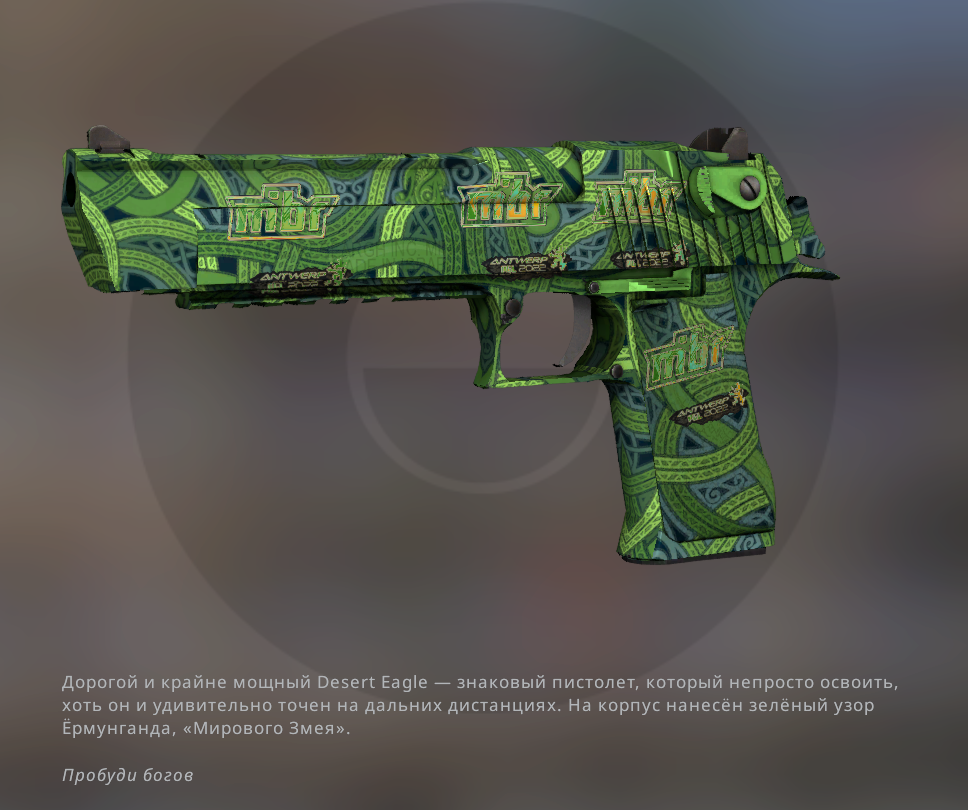
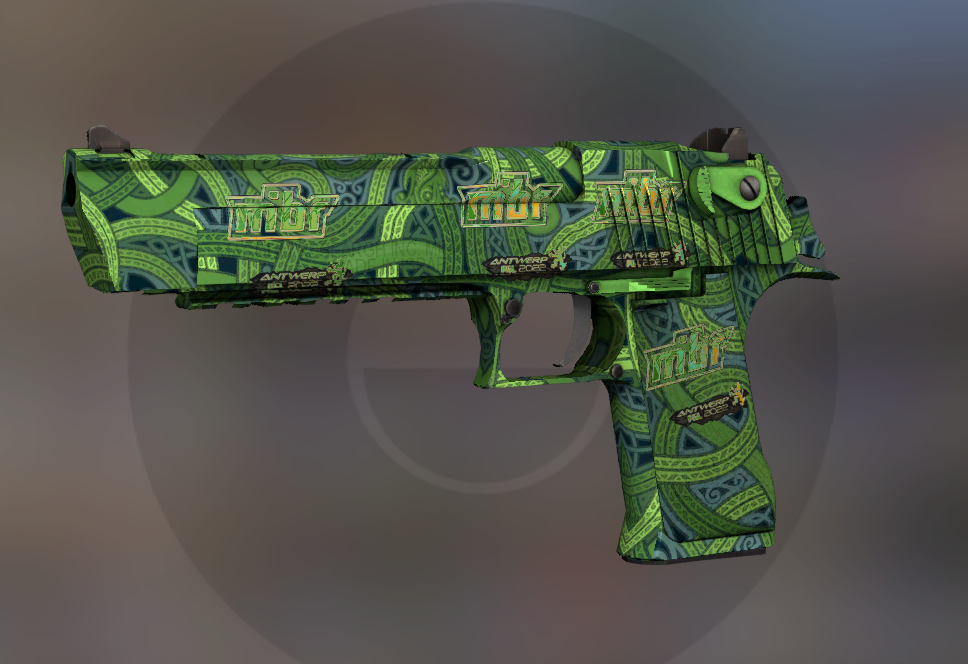
add collections and descriptions in popup

Changed region(s): [[0.031, 0.1506, 0.9298, 1.0], [0.7128, 0.9036, 0.9607, 0.994]]

diff --git a/src/components/InspectionPopup/InspectionPopup.js b/src/components/InspectionPopup/InspectionPopup.js
@@ -5,6 +5,7 @@ import de from '../../images/inspect_guns/DesertEagle_Ermungand.png';
 
 function InspectionPopup(props) {
 
+  console.log(props.weapon)
   
   return (
     <Popup name="inspection-popup" isVisible={props.isVisible}>
@@ -14,12 +15,20 @@ function InspectionPopup(props) {
       </div>
       <div className='inspection-popup__header'>
         <img className='inspection-popup__header-collection-logo' src={north} alt="collection" draggable="false"/>
-        <h1 className='inspection-popup__header-title'>Desert Eagle | Изумрудный Ёрмунганд</h1>
-        <p className='inspection-popup__header-subtitle'>Коллекция "Север"</p>
-        <div className='inspection-popup__header-underline'></div>
+        <h1 className='inspection-popup__header-title'>{props.weapon.weapon} | {props.weapon.name}</h1>
+        <p className='inspection-popup__header-subtitle'>{props.weapon.collection}</p>
+        <div className={'inspection-popup__underline' + 
+          ((props.weapon.rarity === "Covert") ? " inspection-popup__underline_covert" : "") +
+          ((props.weapon.rarity === "Classified") ? " inspection-popup__underline_classified" : "") +
+          ((props.weapon.rarity === "Restricted") ? " inspection-popup__underline_retricted" : "") +
+          ((props.weapon.rarity === "Mil-Spec") ? " inspection-popup__underline_milspec" : "") +
+          ((props.weapon.rarity === "Industrial") ? " inspection-popup__underline_industrial" : "") +
+          ((props.weapon.rarity === "Consumer") ? " inspection-popup__underline_consumer" : "")}>
+        </div>
       </div>
       <div className='inspection-popup__main'>
-        <img className='inspection-popup__main-logo' src={de} alt="weapon" draggable="false"/>
+        <img className='inspection-popup__image' src={props.weapon.image_inspect} alt="weapon" draggable="false"/>
+        <p className='inspection-popup__description'>{props.weapon.description}</p>
       </div>
       <div className='inspection-popup__bottom'>
         <button className='inspection-popup__button' onClick={props.handleClose}>Закрыть</button>

diff --git a/src/styles/index.css b/src/styles/index.css
@@ -1373,16 +1373,16 @@ https://toughengineer.github.io/demo/slider-styler*/
   position: relative;
   transition: box-shadow 0.2s linear;
 }
-.gun__image-wrapper_red {
+.gun__image-wrapper_covert {
   border-left: 6px solid #EB4B4B;
 }
-.gun__image-wrapper_pink {
+.gun__image-wrapper_classified {
   border-left: 6px solid #D32CE6;
 }
-.gun__image-wrapper_purple {
+.gun__image-wrapper_retricted {
   border-left: 6px solid #8847ff;
 }
-.gun__image-wrapper_blue {
+.gun__image-wrapper_milspec {
   border-left: 6px solid #4B69FF;
 }
 .gun__image-wrapper_industrial {
@@ -3968,21 +3968,60 @@ https://toughengineer.github.io/demo/slider-styler*/
   color: #CCCCCC;
   grid-area: subtitle;
 }
-.inspection-popup__header-underline {
+.inspection-popup__underline {
   margin: 0;
   padding: 0;
   width: 100%;
   height: 6px;
   display: flex;
   box-shadow: 0px 2px 8px 1px rgba(0, 0, 0, 0.5);
-  background-color: #8847ff;
+  background-color: #DED6CC;
   grid-area: underline;
+}
+.inspection-popup__underline_covert {
+  background-color: #EB4B4B;
+}
+.inspection-popup__underline_classified {
+  background-color: #D32CE6;
+}
+.inspection-popup__underline_retricted {
+  background-color: #8847ff;
+}
+.inspection-popup__underline_milspec {
+  background-color: #4B69FF;
+}
+.inspection-popup__underline_industrial {
+  background-color: #5E98D9;
+}
+.inspection-popup__underline_consumer {
+  background-color: #B0C3D9;
 }
 .inspection-popup__main {
   margin: 0;
   padding: 20px 0 0 0;
   display: flex;
+  align-items: flex-start;
+  flex: 1;
+  box-sizing: border-box;
   z-index: 1;
+}
+.inspection-popup__image {
+  margin: 0;
+  padding: 0;
+  object-fit: contain;
+}
+.inspection-popup__description {
+  margin: 0;
+  padding: 24px 62px;
+  max-width: 968px;
+  display: flex;
+  box-sizing: border-box;
+  font-size: 18px;
+  letter-spacing: 1px;
+  line-height: 1.3;
+  color: #B2B5B8;
+  position: absolute;
+  bottom: 86px;
 }
 .inspection-popup__bottom {
   margin: 0;

diff --git a/src/components/InspectionPopup/InspectionPopup.scss b/src/components/InspectionPopup/InspectionPopup.scss
@@ -89,22 +89,69 @@
     grid-area: subtitle;
   }
 
-  &__header-underline {
+  &__underline {
     margin: 0;
     padding: 0;
     width: 100%;
     height: 6px;
     display: flex;
     box-shadow: 0px 2px 8px 1px rgba(0, 0, 0, 0.5);
-    background-color: $retricted_color;
+    background-color: #DED6CC;
     grid-area: underline;
+
+    &_covert {
+      background-color: $covert_color;
+    }
+
+    &_classified {
+      background-color: $classified_color;
+    }
+
+    &_retricted {
+      background-color: $retricted_color;
+    }
+
+    &_milspec {
+      background-color: $milspec_color;
+    }
+
+    &_industrial {
+      background-color: $industrial_color;
+    }
+
+    &_consumer {
+      background-color: $consumer_color;
+    }
   }
 
   &__main {
     margin: 0;
     padding: 20px 0 0 0;
     display: flex;
+    align-items: flex-start;
+    flex: 1;
+    box-sizing: border-box;
     z-index: 1;
+  }
+
+  &__image {
+    margin: 0;
+    padding: 0;
+    object-fit: contain;
+  }
+
+  &__description {
+    margin: 0;
+    padding: 24px 62px;
+    max-width: 968px;
+    display: flex;
+    box-sizing: border-box;
+    font-size: 18px;
+    letter-spacing: 1px;
+    line-height: 1.3;
+    color: #B2B5B8;
+    position: absolute;
+    bottom: 86px;
   }
 
   &__bottom {

diff --git a/src/components/Gun/Gun.js b/src/components/Gun/Gun.js
@@ -19,16 +19,16 @@ function Gun(props) {
   //Обработчики клика по опциям в меню
   function handleOptionClick() {
     console.log("Осмотреть")
-    props.handleInspectClick();
+    props.handleInspectClick(props.object);
   }
 
   return (
     <li className={`gun`} ref={gunRef}>
       <div className={`gun__image-wrapper gun__image-wrapper-${props.object.name}` + 
-        ((props.object.rarity === "Covert") ? " gun__image-wrapper_red" : "") +
-        ((props.object.rarity === "Classified") ? " gun__image-wrapper_pink" : "") +
-        ((props.object.rarity === "Restricted") ? " gun__image-wrapper_purple" : "") +
-        ((props.object.rarity === "Mil-Spec") ? " gun__image-wrapper_blue" : "") +
+        ((props.object.rarity === "Covert") ? " gun__image-wrapper_covert" : "") +
+        ((props.object.rarity === "Classified") ? " gun__image-wrapper_classified" : "") +
+        ((props.object.rarity === "Restricted") ? " gun__image-wrapper_retricted" : "") +
+        ((props.object.rarity === "Mil-Spec") ? " gun__image-wrapper_milspec" : "") +
         ((props.object.rarity === "Industrial") ? " gun__image-wrapper_industrial" : "") +
         ((props.object.rarity === "Consumer") ? " gun__image-wrapper_consumer" : "")     
         }>

diff --git a/src/components/App/App.js b/src/components/App/App.js
@@ -39,6 +39,7 @@ function App() {
   const [setupValue, setSetupValue] = React.useState(0);
 
   const[isInspectionPopupVisible, setIsInspectionPopupVisible] = React.useState(false);
+  const[weapon, setWeapon] = React.useState({});
 
   const [tooltip, setTooltip] = React.useState({visible: false, text: "", x: "-100", y: "-100"});
 
@@ -172,7 +173,9 @@ function App() {
   }
 
   //Обработчик клика осмотра оружия
-  function handleInspectClick() {
+  function handleInspectClick(object) {
+    console.log(object)
+    setWeapon(object);
     setIsInspectionPopupVisible(true);
   }
 
@@ -239,7 +242,7 @@ function App() {
           handleClose={handleSetupPopupClose}
         /> : < ></> }
         <Tooltip tooltip={tooltip} /> : <></>
-        { isInspectionPopupVisible ? <InspectionPopup isVisible={isInspectionPopupVisible} handleClose={handleInspectionPopupClose} />:<></>}
+        { isInspectionPopupVisible ? <InspectionPopup isVisible={isInspectionPopupVisible} weapon={weapon} handleClose={handleInspectionPopupClose} />:<></>}
     </div>
     </TooltipContext.Provider>
   );

diff --git a/src/components/Gun/Gun.scss b/src/components/Gun/Gun.scss
@@ -23,28 +23,28 @@
     position: relative;
     transition: box-shadow 0.2s linear;
 
-    &_red {
-      border-left: 6px solid #EB4B4B;
+    &_covert {
+      border-left: 6px solid $covert_color;
     }
 
-    &_pink {
-      border-left: 6px solid #D32CE6;
+    &_classified {
+      border-left: 6px solid $classified_color;
     }
 
-    &_purple {
+    &_retricted {
       border-left: 6px solid $retricted_color;
     }
 
-    &_blue {
-      border-left: 6px solid #4B69FF;
+    &_milspec {
+      border-left: 6px solid $milspec_color;
     }
 
     &_industrial {
-      border-left: 6px solid #5E98D9;
+      border-left: 6px solid $industrial_color;
     }
 
     &_consumer {
-      border-left: 6px solid #B0C3D9;
+      border-left: 6px solid $consumer_color;
     }
   }
 

diff --git a/src/utils/constants.js b/src/utils/constants.js
@@ -2077,6 +2077,8 @@ export const inventoryArray = [
     weapon: "Desert Eagle",
     name: "Изумрудный Ёрмунганд",
     rarity: "Restricted",
+    description: "Дорогой и крайне мощный Desert Eagle — знаковый пистолет, который непросто освоить, хоть он и удивительно точен на дальних дистанциях. На корпус нанесён зелёный узор Ёрмунганда, «Мирового Змея». Пробуди богов",
+    collection: "Коллекция «Север»",
     category: "Default",
     type: "Pistol",
     date: new Date("2022-11-26"),
